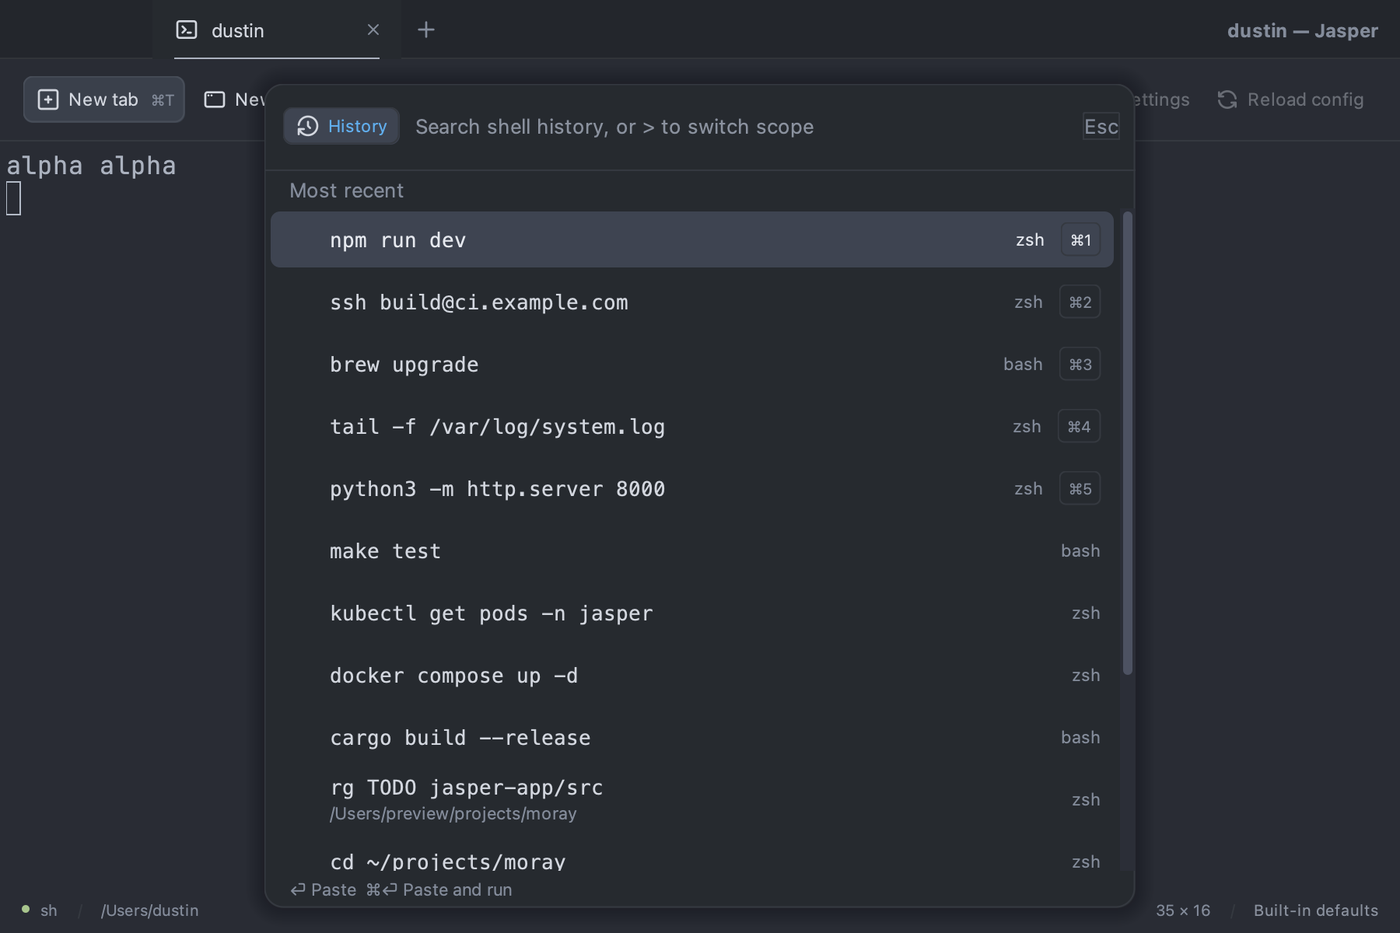
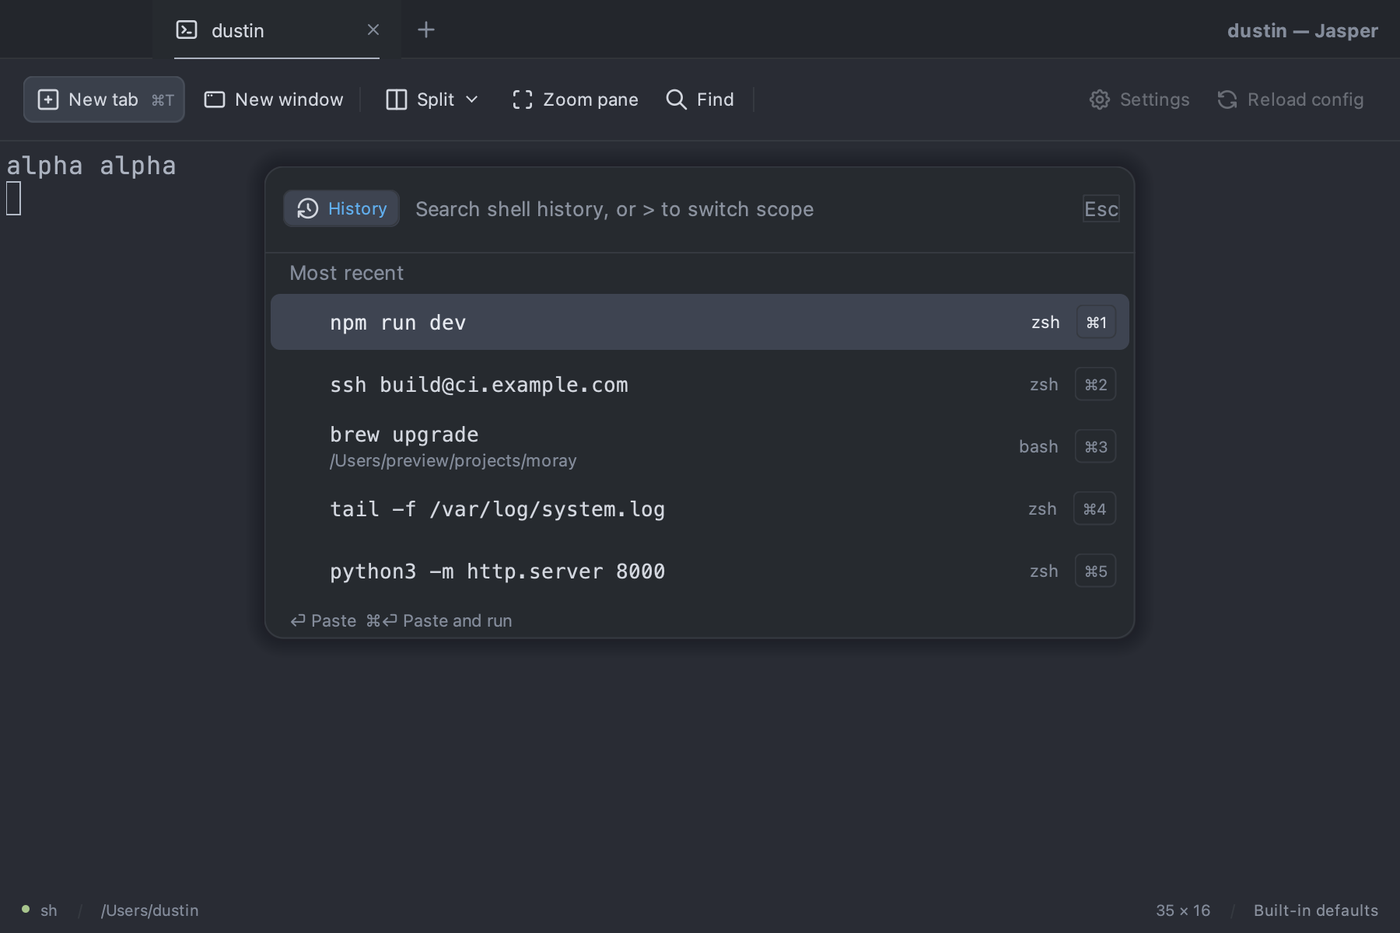
feat: make the palette's result cap configurable and enforce it in every scope
palette.max_results (1-20, default 5, live) is now the hard cap on rows in
every scope. PaletteContext carries it to CommandsScope (through a new
CommandSearch.find limit) and to ShellHistoryScope, which no longer holds
fifty rows and scrolls twelve. The card sizes to exactly that many rows and
PaletteScope.preferredRows() is gone. Cmd/Ctrl+1-5 still number the first
five. Template, example, guides, STATUS and the History renders are updated.

diff --git a/jasper-app/src/main/java/dev/jasper/app/ConfigLoader.java b/jasper-app/src/main/java/dev/jasper/app/ConfigLoader.java
@@ -28,18 +28,19 @@ final class ConfigLoader {
         }
     }
 
-    private static final Map<List<String>, Set<String>> FIELDS = Map.of(
-        List.of(), Set.of("window", "font", "ui", "keybindings", "terminal", "buddy", "history"),
-        List.of("buddy"), Set.of("enabled"),
-        List.of("history"), Set.of("enabled"),
-        List.of("window"), Set.of("tab_height", "toolbar", "status_bar", "columns", "lines"),
-        List.of("font"), Set.of("family", "size", "fallback", "ligatures", "line_height"),
-        List.of("ui"), Set.of("theme"),
-        List.of("ui", "theme"), Set.of("variant"),
-        List.of("terminal"), Set.of("shell", "env", "scrollback", "option_as_meta", "cursor",
-            "dim_inactive_panes", "copy_on_select", "bell", "on_exit"),
-        List.of("terminal", "shell"), Set.of("program", "args"),
-        List.of("terminal", "cursor"), Set.of("shape", "blink"));
+    private static final Map<List<String>, Set<String>> FIELDS = Map.ofEntries(
+        Map.entry(List.of(), Set.of("window", "font", "ui", "keybindings", "terminal", "buddy", "history", "palette")),
+        Map.entry(List.of("buddy"), Set.of("enabled")),
+        Map.entry(List.of("history"), Set.of("enabled")),
+        Map.entry(List.of("palette"), Set.of("max_results")),
+        Map.entry(List.of("window"), Set.of("tab_height", "toolbar", "status_bar", "columns", "lines")),
+        Map.entry(List.of("font"), Set.of("family", "size", "fallback", "ligatures", "line_height")),
+        Map.entry(List.of("ui"), Set.of("theme")),
+        Map.entry(List.of("ui", "theme"), Set.of("variant")),
+        Map.entry(List.of("terminal"), Set.of("shell", "env", "scrollback", "option_as_meta", "cursor",
+            "dim_inactive_panes", "copy_on_select", "bell", "on_exit")),
+        Map.entry(List.of("terminal", "shell"), Set.of("program", "args")),
+        Map.entry(List.of("terminal", "cursor"), Set.of("shape", "blink")));
 
     private final Path file;
     private final TomlParseResult toml;
@@ -51,6 +52,7 @@ final class ConfigLoader {
     private boolean statusBar = true;
     private boolean buddyEnabled = true;
     private boolean historyEnabled = true;
+    private int maxResults = PaletteContext.DEFAULT_MAX_RESULTS;
     private int columns = 150;
     private int lines = 45;
     private String fontFamily = FontConfig.defaults().family();
@@ -94,7 +96,7 @@ final class ConfigLoader {
         var snapshot = new ConfigSnapshot(tabHeight, toolbar, statusBar,
             new FontConfig(fontFamily, fontSize, fallback, ligatures, lineHeight), variant, keybindings, columns, lines,
             new TerminalConfig(new TerminalConfig.Shell(program, args), env, scrollback, optionAsMeta,
-                cursorShape, cursorBlink, dimInactivePanes, copyOnSelect, bell, onExit), buddyEnabled, historyEnabled);
+                cursorShape, cursorBlink, dimInactivePanes, copyOnSelect, bell, onExit), buddyEnabled, historyEnabled, maxResults);
         return new Result(snapshot, diagnostics, rejected);
     }
 
@@ -133,6 +135,7 @@ final class ConfigLoader {
             case "window.status_bar" -> statusBar = bool(path, value, statusBar);
             case "buddy.enabled" -> buddyEnabled = bool(path, value, buddyEnabled);
             case "history.enabled" -> historyEnabled = bool(path, value, historyEnabled);
+            case "palette.max_results" -> maxResults = integer(path, value, PaletteContext.MIN_MAX_RESULTS, PaletteContext.MAX_MAX_RESULTS, maxResults);
             case "font.family" -> fontFamily = string(path, value, ConfigLoader::fontName,
                 "Use a nonblank font name without NUL; using the default.", fontFamily);
             case "font.size" -> fontSize = number(path, value, 6, 72, fontSize);

diff --git a/jasper-app/src/test/java/dev/jasper/app/CommandPalettePreview.java b/jasper-app/src/test/java/dev/jasper/app/CommandPalettePreview.java
@@ -158,7 +158,7 @@ public final class CommandPalettePreview {
                     "tail -f /var/log/system.log", "brew upgrade", "ssh build@ci.example.com", "npm run dev"};
                 for (int i = 0; i < commands.length; i++)
                     index.record(new ShellHistoryEntry(commands[i], 1_700_000_000L + i, java.util.Set.of(i % 3 == 0 ? "bash" : "zsh"),
-                        i == 5 ? java.nio.file.Path.of("/Users/preview/projects/moray") : null, null));
+                        i == 12 ? java.nio.file.Path.of("/Users/preview/projects/moray") : null, null));
                 var owner = new WindowContent(launcher, DesktopTestSupport.HOME, path -> {}, () -> {}, () -> {},
                     themes, KeyBindings.defaults(true), System::nanoTime, history, true, index);
                 var root = new JRootPane();
@@ -231,28 +231,26 @@ public final class CommandPalettePreview {
         private void assertScenario(Scenario scenario) throws Exception {
             SwingUtilities.invokeAndWait(() -> {
                 var palette = owner.commandPalette().component();
-                int modelSize = palette.resultList().getModel().getSize();
-                // History's recent list holds every entry (15); the card only shows preferredRows (12) at once.
-                int count = scenario == Scenario.HISTORY_RECENT ? palette.resultList().getVisibleRowCount() : modelSize;
+                int count = palette.resultList().getModel().getSize();
                 int expected = switch (scenario) {
                     case RECENTS -> 3;
                     case PANE_QUERY, LONG_LABELS -> 5;
                     case NO_MATCH -> 0;
-                    case HISTORY_RECENT -> 12;
+                    case HISTORY_RECENT -> 5;
                     case HISTORY_QUERY, SCOPE_PICKER -> 2;
                 };
                 if (count != expected) {
                     throw new AssertionError(scenario.slug + " expected " + expected + " rows, got " + count);
                 }
                 if (scenario == Scenario.PANE_QUERY) {
-                    for (int i = 0; i < modelSize; i++) {
+                    for (int i = 0; i < count; i++) {
                         String id = palette.resultList().getModel().getElementAt(i).id();
                         if (id.startsWith("preview.")) throw new AssertionError("Pane query used synthetic command " + id);
                     }
                 }
                 if (scenario == Scenario.HISTORY_RECENT) {
-                    if (modelSize != 15) throw new AssertionError("history-recent expected 15 model rows, got " + modelSize);
-                    for (int i = 0; i < modelSize; i++) {
+                    // Fifteen entries are recorded; the hard cap keeps only the newest five.
+                    for (int i = 0; i < count; i++) {
                         PaletteRow row = palette.resultList().getModel().getElementAt(i);
                         if (row.tag() == null) throw new AssertionError("history-recent row missing tag: " + row.id());
                     }

diff --git a/jasper-app/src/main/java/dev/jasper/app/WindowCommandPalette.java b/jasper-app/src/main/java/dev/jasper/app/WindowCommandPalette.java
@@ -30,6 +30,7 @@ final class WindowCommandPalette implements AutoCloseable {
     private TerminalPane originPane;
     private Component priorFocus;
     private boolean open, closed, dirty = true;
+    private int maxResults = PaletteContext.DEFAULT_MAX_RESULTS;
 
     WindowCommandPalette(WindowContent owner, ScopeRegistry scopes, String defaultScopeId, boolean macOs) {
         this.owner = owner; this.scopes = scopes; this.defaultScopeId = defaultScopeId; this.macOs = macOs;
@@ -79,7 +80,7 @@ final class WindowCommandPalette implements AutoCloseable {
         owner.updateActions();
         originTab = owner.currentTab(); originPane = owner.currentPane();
         priorFocus = KeyboardFocusManager.getCurrentKeyboardFocusManager().getFocusOwner();
-        context = new PaletteContext(macOs, originPane == null ? PaletteTarget.none() : PaletteTarget.of(originPane));
+        context = new PaletteContext(macOs, originPane == null ? PaletteTarget.none() : PaletteTarget.of(originPane), maxResults);
         open = true; overlay.swallowing = false; palette.setVisible(true); overlay.setVisible(true);
         activate(scope, false);
         palette.queryField().requestFocusInWindow();
@@ -89,12 +90,24 @@ final class WindowCommandPalette implements AutoCloseable {
         if (scopeListener != null) scopeListener.close();
         active = scope; picker = false;
         scopeListener = scope.onChanged(this::changed);
-        palette.setScope(scope.label(), scope.icon(), scope.placeholder(), scope.verbs(), scope.preferredRows(),
-            scope.monospaceRows());
+        palette.setScope(scope.label(), scope.icon(), scope.placeholder(), scope.verbs(), maxResults, scope.monospaceRows());
         if (!keepQuery) palette.queryField().setText("");
         scope.activated(context);
         rebuild(false);
     }
+
+    /** The hard cap every scope returns; a live change re-runs the open query under the new cap. */
+    void setMaxResults(int value) {
+        if (value == maxResults) return;
+        maxResults = value;
+        context = new PaletteContext(macOs, context.target(), maxResults);
+        if (open && active != null) {
+            palette.setScope(active.label(), active.icon(), active.placeholder(), active.verbs(), maxResults, active.monospaceRows());
+            rebuild(true);
+        }
+    }
+
+    int maxResults() { return maxResults; }
 
     void dismiss() { if (open) restoreAndHide(); }
     /** Escape leaves the picker with the previous scope; outside the picker it dismisses. */

diff --git a/jasper-app/src/test/java/dev/jasper/app/ShellHistoryScopeTest.java b/jasper-app/src/test/java/dev/jasper/app/ShellHistoryScopeTest.java
@@ -40,7 +40,6 @@ class ShellHistoryScopeTest {
                 var context = new PaletteContext(true, target(new ArrayList<>(), new AtomicInteger(), Path.of("/work"), true));
                 assertThat(scope.id()).isEqualTo(PaletteScope.HISTORY_ID);
                 assertThat(scope.verbs()).containsExactly(ShellHistoryScope.PASTE, ShellHistoryScope.PASTE_RUN);
-                assertThat(scope.preferredRows()).isEqualTo(12);
                 assertThat(scope.monospaceRows()).isTrue();
                 var recent = scope.search("  ", context);
                 assertThat(recent.sectionLabel()).isEqualTo("Most recent");
@@ -54,6 +53,22 @@ class ShellHistoryScopeTest {
                     "test-runner --fast", "testing 1 2", "git commit -m test", "make test", "attest now");
                 assertThat(scope.search("commit test", context).rows()).extracting(PaletteRow::title).containsExactly("git commit -m test");
                 assertThat(scope.search("nothing here", context).rows()).isEmpty();
+            }
+        });
+    }
+
+    @Test void theContextCapsBothTheRecentListAndSearchResults() throws Exception {
+        SwingUtilities.invokeAndWait(() -> {
+            try (var index = indexOf(
+                    ShellHistoryEntry.of("test one", 1, "zsh"), ShellHistoryEntry.of("test two", 2, "zsh"),
+                    ShellHistoryEntry.of("test three", 3, "zsh"), ShellHistoryEntry.of("test four", 4, "zsh"),
+                    ShellHistoryEntry.of("test five", 5, "zsh"), ShellHistoryEntry.of("test six", 6, "zsh"))) {
+                var scope = new ShellHistoryScope(index, null);
+                var three = new PaletteContext(true, target(new ArrayList<>(), new AtomicInteger(), null, true), 3);
+                assertThat(scope.search("", three).rows()).extracting(PaletteRow::title).containsExactly("test six", "test five", "test four");
+                assertThat(scope.search("test", three).rows()).hasSize(3);
+                var five = new PaletteContext(true, target(new ArrayList<>(), new AtomicInteger(), null, true));
+                assertThat(scope.search("", five).rows()).hasSize(5);
             }
         });
     }

diff --git a/jasper-app/src/test/java/dev/jasper/app/ShellHistoryIntegrationTest.java b/jasper-app/src/test/java/dev/jasper/app/ShellHistoryIntegrationTest.java
@@ -66,6 +66,33 @@ class ShellHistoryIntegrationTest {
         });
     }
 
+    @Test void maxResultsCapsEveryScopeLiveAndTheCardShowsExactlyThatMany() throws Exception {
+        edt(() -> {
+            try (var index = inlineIndex(); var owner = owner(true, index)) {
+                for (int i = 0; i < 8; i++) index.record(ShellHistoryEntry.of("cmd " + i, 10 + i, "zsh"));
+                CommandPaletteShortcutsTest.install(owner);
+                var palette = owner.commandPalette(); var card = palette.component();
+                palette.open(PaletteScope.HISTORY_ID);
+                assertThat(card.resultList().getModel().getSize()).isEqualTo(5);
+                assertThat(card.resultList().getVisibleRowCount()).isEqualTo(5);
+                var defaults = ConfigSnapshot.defaults();
+                var three = new ConfigSnapshot(defaults.tabHeight(), defaults.toolbar(), defaults.statusBar(), defaults.font(),
+                    defaults.variant(), Map.of(), defaults.columns(), defaults.lines(), defaults.terminal(),
+                    defaults.buddyEnabled(), defaults.historyEnabled(), 3);
+                owner.applyConfiguration(three, true);
+                assertThat(palette.isOpen()).isTrue();
+                assertThat(card.resultList().getModel().getSize()).isEqualTo(3);
+                assertThat(card.resultList().getVisibleRowCount()).isEqualTo(3);
+                assertThat(card.resultList().getModel().getElementAt(0).title()).isEqualTo("cmd 7");
+                palette.open(PaletteScope.COMMANDS_ID);
+                card.queryField().setText("tab");
+                assertThat(card.resultList().getModel().getSize()).isEqualTo(3);
+                owner.applyConfiguration(defaults, true);
+                assertThat(card.resultList().getModel().getSize()).isEqualTo(5);
+            }
+        });
+    }
+
     @Test @DisabledOnOs(OS.WINDOWS)
     void commandsRunInARealShellReachTheIndexWithTheirShellTag(@org.junit.jupiter.api.io.TempDir Path directory) throws Exception {
         var pending = new ArrayDeque<Runnable>();

diff --git a/jasper-app/src/main/java/dev/jasper/app/ConfigSnapshot.java b/jasper-app/src/main/java/dev/jasper/app/ConfigSnapshot.java
@@ -10,8 +10,10 @@ import java.util.Objects;
 record ConfigSnapshot(int tabHeight, WindowContent.ToolbarMode toolbar, boolean statusBar,
                       FontConfig font, Appearance variant, Map<String, String> keybindings,
                       int columns, int lines, TerminalConfig terminal, boolean buddyEnabled,
-                      boolean historyEnabled) {
+                      boolean historyEnabled, int maxResults) {
     ConfigSnapshot {
+        if (maxResults < PaletteContext.MIN_MAX_RESULTS || maxResults > PaletteContext.MAX_MAX_RESULTS)
+            throw new IllegalArgumentException("Max results must be 1\u201320.");
         if (tabHeight < 28 || tabHeight > 72) throw new IllegalArgumentException("Tab height must be 28–72.");
         if (columns < 5 || columns > 500) throw new IllegalArgumentException("Columns must be 5–500.");
         if (lines < 2 || lines > 200) throw new IllegalArgumentException("Lines must be 2–200.");
@@ -43,6 +45,13 @@ record ConfigSnapshot(int tabHeight, WindowContent.ToolbarMode toolbar, boolean 
                    FontConfig font, Appearance variant, Map<String, String> keybindings,
                    int columns, int lines, TerminalConfig terminal, boolean buddyEnabled) {
         this(tabHeight, toolbar, statusBar, font, variant, keybindings, columns, lines, terminal, buddyEnabled, true);
+    }
+
+    ConfigSnapshot(int tabHeight, WindowContent.ToolbarMode toolbar, boolean statusBar,
+                   FontConfig font, Appearance variant, Map<String, String> keybindings,
+                   int columns, int lines, TerminalConfig terminal, boolean buddyEnabled, boolean historyEnabled) {
+        this(tabHeight, toolbar, statusBar, font, variant, keybindings, columns, lines, terminal, buddyEnabled,
+            historyEnabled, PaletteContext.DEFAULT_MAX_RESULTS);
     }
 
     ConfigSnapshot(int tabHeight, WindowContent.ToolbarMode toolbar, boolean statusBar,

diff --git a/jasper-app/src/main/java/dev/jasper/app/ShellHistoryScope.java b/jasper-app/src/main/java/dev/jasper/app/ShellHistoryScope.java
@@ -12,7 +12,6 @@ import javax.swing.Icon;
 final class ShellHistoryScope implements PaletteScope {
     static final PaletteVerb PASTE = new PaletteVerb("paste", "Paste");
     static final PaletteVerb PASTE_RUN = new PaletteVerb("paste_run", "Paste and run");
-    static final int MAX_RESULTS = 50;
 
     private final ShellHistoryIndex index;
     private final Icon icon;
@@ -31,7 +30,6 @@ final class ShellHistoryScope implements PaletteScope {
     @Override public String placeholder() { return "Search shell history, or > to switch scope"; }
     @Override public List<String> aliases() { return List.of("hist", "shell"); }
     @Override public List<PaletteVerb> verbs() { return List.of(PASTE, PASTE_RUN); }
-    @Override public int preferredRows() { return 12; }
     @Override public boolean monospaceRows() { return true; }
     @Override public void activated(PaletteContext context) { index.refresh(); }
 
@@ -44,7 +42,7 @@ final class ShellHistoryScope implements PaletteScope {
         if (q.isEmpty()) {
             var rows = new ArrayList<PaletteRow>();
             for (ShellHistoryEntry entry : snapshot.entries()) {
-                if (rows.size() == MAX_RESULTS) break;
+                if (rows.size() == context.maxResults()) break;
                 rows.add(row(entry, tagged));
             }
             return new PaletteResults(rows, "Most recent", null);
@@ -63,7 +61,7 @@ final class ShellHistoryScope implements PaletteScope {
         ranked.sort(Comparator.comparingInt(Ranked::tier).thenComparingInt(Ranked::directory).thenComparingInt(Ranked::position));
         var rows = new ArrayList<PaletteRow>();
         for (Ranked item : ranked) {
-            if (rows.size() == MAX_RESULTS) break;
+            if (rows.size() == context.maxResults()) break;
             rows.add(row(item.entry(), tagged));
         }
         return new PaletteResults(rows, null, null);

diff --git a/jasper-app/src/main/java/dev/jasper/app/CommandsScope.java b/jasper-app/src/main/java/dev/jasper/app/CommandsScope.java
@@ -43,12 +43,14 @@ final class CommandsScope implements PaletteScope {
 
     @Override public PaletteResults search(String query, PaletteContext context) {
         if (CommandSearch.normalize(query).isEmpty()) {
-            List<Command> recent = available(history.recent());
+            int limit = Math.min(3, context.maxResults());
+            List<Command> recent = available(history.recent(), limit);
             boolean suggested = recent.isEmpty();
-            if (suggested) recent = available(STARTERS);
+            if (suggested) recent = available(STARTERS, limit);
             return new PaletteResults(rows(recent), suggested ? "Suggested" : "Recent", null);
         }
-        return new PaletteResults(rows(CommandSearch.find(registry.entries(), query, history.recent())), null, null);
+        return new PaletteResults(
+            rows(CommandSearch.find(registry.entries(), query, history.recent(), context.maxResults())), null, null);
     }
 
     @Override public boolean available(PaletteRow row, PaletteContext context) {
@@ -68,9 +70,9 @@ final class CommandsScope implements PaletteScope {
         return new CommandRegistry.Subscription(() -> { registryListener.close(); historyListener.close(); });
     }
 
-    private List<Command> available(List<String> ids) {
+    private List<Command> available(List<String> ids, int limit) {
         return ids.stream().flatMap(id -> registry.find(id).stream())
-            .filter(command -> command.action().isEnabled()).limit(3).toList();
+            .filter(command -> command.action().isEnabled()).limit(limit).toList();
     }
 
     List<PaletteRow> rows(List<Command> commands) {

diff --git a/jasper-app/src/test/java/dev/jasper/app/ConfigLoaderTest.java b/jasper-app/src/test/java/dev/jasper/app/ConfigLoaderTest.java
@@ -233,6 +233,26 @@ class ConfigLoaderTest {
         assertDiagnostic(unknown, "buddy.visible", 2, 1, ConfigDiagnostic.Severity.WARNING);
     }
 
+    @Test void paletteMaxResultsParsesWithinRangeAndRejectsOthers() {
+        var three = parse("[palette]\nmax_results = 3\n");
+        assertThat(three.rejected()).isFalse();
+        assertThat(three.diagnostics()).isEmpty();
+        assertThat(three.snapshot().maxResults()).isEqualTo(3);
+        assertThat(ConfigSnapshot.defaults().maxResults()).isEqualTo(5);
+        var tooMany = parse("[palette]\nmax_results = 21\n");
+        assertThat(tooMany.rejected()).isFalse();
+        assertThat(tooMany.snapshot().maxResults()).isEqualTo(5);
+        assertDiagnostic(tooMany, "palette.max_results", 2, 1, ConfigDiagnostic.Severity.ERROR);
+        var zero = parse("[palette]\nmax_results = 0\n");
+        assertThat(zero.snapshot().maxResults()).isEqualTo(5);
+        assertDiagnostic(zero, "palette.max_results", 2, 1, ConfigDiagnostic.Severity.ERROR);
+        var text = parse("[palette]\nmax_results = \"5\"\n");
+        assertThat(text.rejected()).isTrue();
+        assertDiagnostic(text, "palette.max_results", 2, 1, ConfigDiagnostic.Severity.ERROR);
+        var unknown = parse("[palette]\nrows = 5\n");
+        assertDiagnostic(unknown, "palette.rows", 2, 1, ConfigDiagnostic.Severity.WARNING);
+    }
+
     @Test void historyEnabledParsesAndRejectsNonBooleans() {
         var off = parse("[history]\nenabled = false\n");
         assertThat(off.rejected()).isFalse();

diff --git a/jasper-app/src/test/java/dev/jasper/app/CommandsScopeTest.java b/jasper-app/src/test/java/dev/jasper/app/CommandsScopeTest.java
@@ -51,6 +51,21 @@ class CommandsScopeTest {
         });
     }
 
+    @Test void theContextCapsSearchResultsAndRecents() throws Exception {
+        SwingUtilities.invokeAndWait(() -> {
+            try (var registry = new CommandRegistry(); var history = new CommandHistory()) {
+                var scope = new CommandsScope(registry, history, true, command -> {}, null);
+                for (int i = 0; i < 8; i++) registry.register(command("other_" + i, "Other " + i, null));
+                var capped = new PaletteContext(true, PaletteTarget.none(), 3);
+                assertThat(scope.search("other", capped).rows()).hasSize(3);
+                assertThat(scope.search("other", new PaletteContext(true, PaletteTarget.none())).rows()).hasSize(5);
+                for (int i = 0; i < 4; i++) history.record("other_" + i);
+                assertThat(scope.search("", capped).rows()).hasSize(3);
+                assertThat(scope.search("", new PaletteContext(true, PaletteTarget.none(), 2)).rows()).hasSize(2);
+            }
+        });
+    }
+
     @Test void staleDisabledOrUnregisteredRowsAreUnavailableAndNeverDispatch() throws Exception {
         SwingUtilities.invokeAndWait(() -> {
             try (var registry = new CommandRegistry(); var history = new CommandHistory()) {

diff --git a/jasper-app/src/test/java/dev/jasper/app/ConfigTemplateTest.java b/jasper-app/src/test/java/dev/jasper/app/ConfigTemplateTest.java
@@ -42,6 +42,7 @@ class ConfigTemplateTest {
         assertThat(toml.errors()).isEmpty();
         assertThat(toml.getTable("buddy").keySet()).containsExactly("enabled");
         assertThat(toml.getTable("history").keySet()).containsExactly("enabled");
+        assertThat(toml.getTable("palette").keySet()).containsExactly("max_results");
         assertThat(toml.getTable("window").keySet())
             .containsExactlyInAnyOrder("tab_height", "toolbar", "status_bar", "columns", "lines");
         assertThat(toml.getTable("font").keySet())
@@ -76,6 +77,7 @@ class ConfigTemplateTest {
             assertThat(all.snapshot().statusBar()).isTrue();
             assertThat(all.snapshot().buddyEnabled()).isTrue();
             assertThat(all.snapshot().historyEnabled()).isTrue();
+            assertThat(all.snapshot().maxResults()).isEqualTo(5);
             assertThat(all.snapshot().fontSize()).isEqualTo(16f);
             assertThat(all.snapshot().columns()).isEqualTo(150);
             assertThat(all.snapshot().lines()).isEqualTo(45);

diff --git a/jasper-app/src/test/java/dev/jasper/app/CommandSearchTest.java b/jasper-app/src/test/java/dev/jasper/app/CommandSearchTest.java
@@ -25,6 +25,19 @@ class CommandSearchTest {
         assertThat(matches.get(1).id()).isEqualTo("test.0");
     }
 
+    @Test void theResultLimitIsConfigurableAndDefaultsToFive() {
+        var entries = new ArrayList<CommandSearch.Entry>();
+        for (int i = 0; i < 8; i++) {
+            var action = new AbstractAction("Other " + i) {
+                @Override public void actionPerformed(java.awt.event.ActionEvent e) {}
+            };
+            entries.add(CommandSearch.entry(new Command("test." + i, action, List.of())));
+        }
+        assertThat(CommandSearch.find(entries, "other", List.of())).hasSize(5);
+        assertThat(CommandSearch.find(entries, "other", List.of(), 2)).hasSize(2);
+        assertThat(CommandSearch.find(entries, "other", List.of(), 20)).hasSize(8);
+    }
+
     @Test void exactPrefixWordPrefixSubstringKeywordAndFuzzyTiersAreOrdered() {
         var entries = List.of(
             entry("test.fuzzy", "SxPliT", List.of()),
